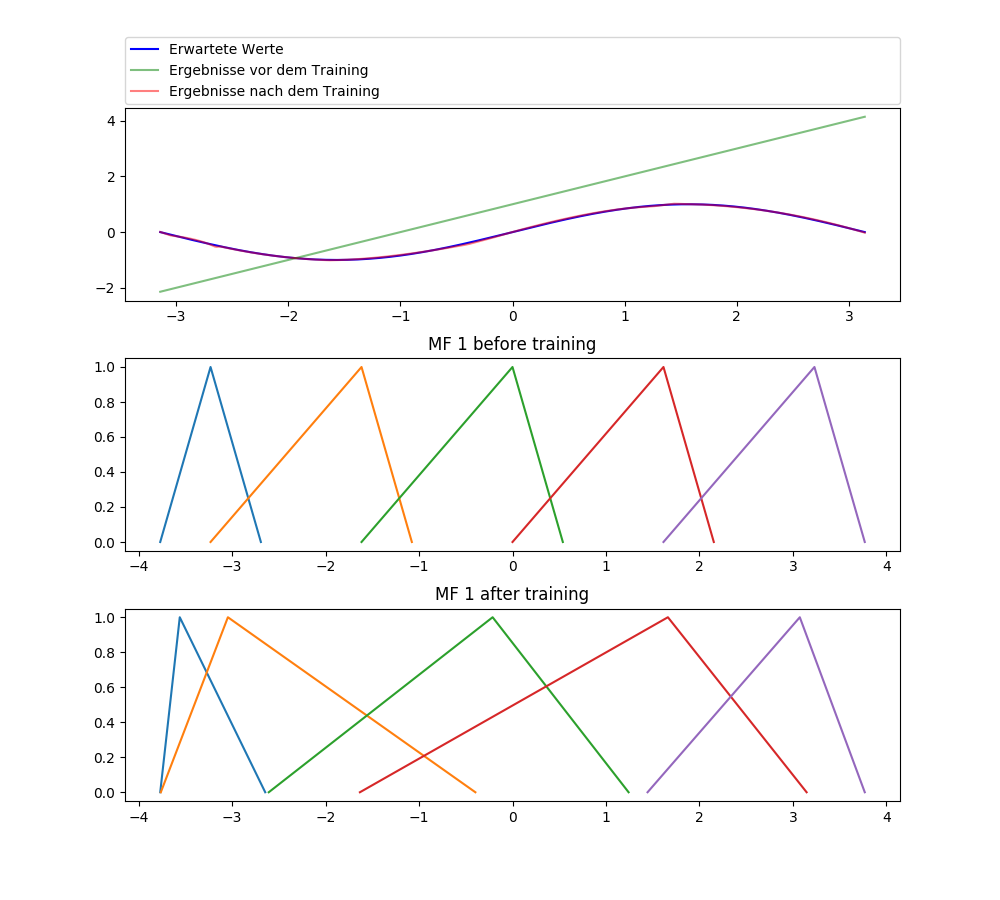
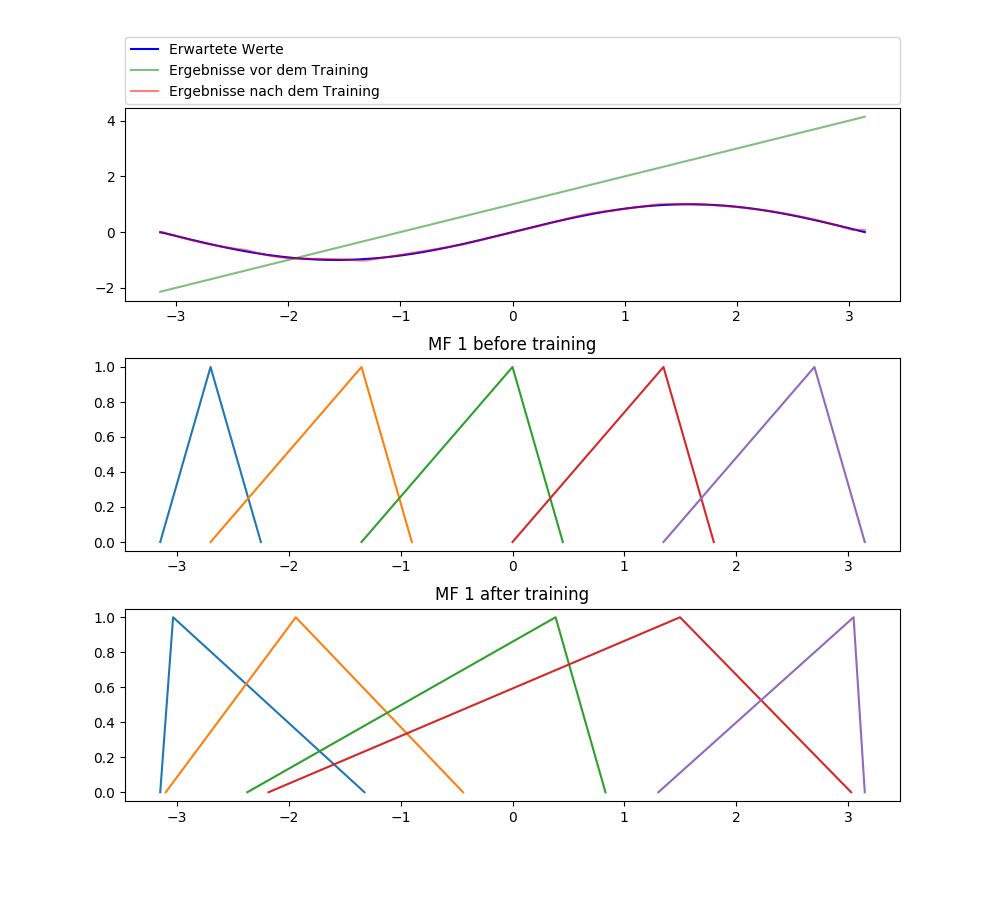
Partial Commit.

diff --git a/Tensorflow/ANFIS/anfis.py b/Tensorflow/ANFIS/anfis.py
@@ -117,45 +117,57 @@ class Anfis:
     # Finish it with the rest of the program Code
 
     def first_layer(self):
+        # three different types for gradient descent type
+        # so we have three types of batch size, wich defines the amount of elements to be evaluated in one interation
         if self.gradient_type == 0:
             self.batch_size = self.num_inputs
-            self.x = tf.placeholder(name="x", shape=(self.num_inputs, self.batch_size), dtype=tf.float64)
-            # expected result
-            self.y = tf.placeholder(name="y", shape=(self.batch_size), dtype=tf.float64)
         elif self.gradient_type == 1:
             self.batch_size = int((1 / 5) * (len(self.train_x_arr)))
-            self.x = tf.placeholder(name="x", shape=(self.num_inputs, self.batch_size), dtype=tf.float64)
-            # expected result
-            self.y = tf.placeholder(name="y", shape=(self.batch_size), dtype=tf.float64)
         elif self.gradient_type == 2:
             self.batch_size = len(self.train_x_arr)
-            self.x = tf.placeholder(name="x", shape=(self.num_inputs, self.batch_size), dtype=tf.float64)
-            # expected result
-            self.y = tf.placeholder(name="y", shape=(self.batch_size), dtype=tf.float64)
-
+        # input variable
+        self.x = tf.placeholder(name="x", shape=(self.num_inputs, self.batch_size), dtype=tf.float64)
+        # variable for expected result
+        self.y = tf.placeholder(name="y", shape=(self.batch_size), dtype=tf.float64)
+        # add all the variables to a collection, so that they are
+        # aveilable on demand
         tf.add_to_collection("xVar", self.x)
         tf.add_to_collection("yVar", self.y)
 
     def triangular_mf(self, x, par, name):
         # we define the triangular function
         if self.mf_type == 0:
+            # we split the traingular space into two
+            # the left side
+            # we calculate the membership of x to the left side
+            # we get a negative value if x is not part of the space
             dividend_left = tf.subtract(x, par[0])
             divider_left = tf.subtract(par[1], par[0])
             division_left = tf.divide(dividend_left, divider_left)
-            #
+            # we calculate the membership of x to the right side
             dividend_right = tf.subtract(par[2], x)
             divider_right = tf.subtract(par[2], par[1])
             division_right = tf.divide(dividend_right, divider_right)
-            #
+            # we get the lowest value
             minim = tf.minimum(division_left, division_right)
+            # then we calculate the highest of 0 and the previous value
             maxim = tf.maximum(minim, tf.cast(0.0, tf.float64))
             return maxim
         elif self.mf_type==1:
+            # first we calculate the dividend. We subtract the middle parameter of the mf with x
             dividend = tf.abs(tf.subtract(par[1], x))
+            # then we subtract the two boundary parameters of the membership function
             divider = tf.subtract(par[2], par[0])
+            # we divide the two values to get the output of the memberhip function
             op = tf.divide(dividend, divider)
+            # then we multiply it by 2, because we devide it by the whole length of the triangle
+            # and not just half of the length.
             mul = tf.multiply(tf.cast([2.], tf.float64), op)
+            # we subtract 1 from it so we always either have a positive value when x is a member
+            # of the set, or we get a negative value
             sub = tf.subtract(tf.cast([1.], tf.float64), mul)
+            # we calculate the maximum of the value from the mf and 0, this way we don't take variables that are outside
+            # the range of the membership function
             maxim = tf.maximum(tf.cast([0.], tf.float64), sub, name=name)
             return maxim
 
@@ -211,10 +223,13 @@ class Anfis:
                 val = val + val_inc
 
                 self.var[i][f] = a, m, b
+                self.constraints.append(tf.assign(a, tf.clip_by_value(a, self.range[0], m)))
+                self.constraints.append(tf.assign(b, tf.clip_by_value(b, m, self.range[1])))
+                self.constraints.append(tf.assign(m, tf.clip_by_value(m, self.range[0], self.range[1])))
 
-                self.constraints.append(tf.assign(a, tf.clip_by_value(a, self.range[0], m - 1e-2)))
-                self.constraints.append(tf.assign(b, tf.clip_by_value(b, m + 1e-2, self.range[1])))
-                self.constraints.append(tf.assign(m, tf.clip_by_value(m, self.range[0] + 0.1, self.range[1] - 0.1)))
+                # self.constraints.append(tf.assign(a, tf.clip_by_value(a, self.range[0], m - 1e-2)))
+                # self.constraints.append(tf.assign(b, tf.clip_by_value(b, m + 1e-2, self.range[1])))
+                # self.constraints.append(tf.assign(m, tf.clip_by_value(m, self.range[0] + 0.1, self.range[1] - 0.1)))
                 if f > 0:
                     self.constraints.append(tf.assign(a, tf.clip_by_value(a, self.range[0], self.var[i][f - 1][2] - 1)))
                 self.premises[i][f] = self.triangular_mf(self.x[i], self.var[i][f], "test_mf" + str(i) + str(f))
@@ -416,14 +431,27 @@ class Anfis:
         n = self.fileName + ' 1 Input ' + str(self.num_sets) + ' Sets ' + str(iterations) + ' Epochs ' + batch_types[
             self.gradient_type] + ' ' + mf_types[self.mf_type]
 
+        # graphics data
+        d = self.fileName + ' 1 Input ' + str(self.num_sets) + ' Sets ' + str(iterations) + ' Epochs'
+
         folder = self.fileName + '/' + batch_types[self.gradient_type].split(' ')[0] + '/'
 
         fig.savefig('../graphics/fifthgraphics/' + folder +
                     n + '.png')
 
         row_data = [[n, str(end - start), str(v), batch_types[self.gradient_type], mf_types[self.mf_type]]]
+        graphics_row_data = [[d, str(end - start), str(v), batch_types[self.gradient_type], mf_types[self.mf_type]]]
         print(row_data)
         write_in_csv('../csvFiles/model_results.csv', row_data)
+
+        # write_in_csv('../csvFiles/parabola_1000.csv', graphics_row_data)
+
+        a_y = sess.run(self.a_y)
+        a_0 = sess.run(self.a_0)
+        print("a_0", a_0)
+        print("a_y:", a_y)
+
+        self.__write_conc_param(a_0, a_y, '../graphics/fifthgraphics/' + folder + n + ".txt")
 
         return end - start
 
@@ -456,3 +484,19 @@ class Anfis:
             batch_y.append(self.train_y_arr[i][0])
 
         return batch_x, batch_y
+
+    def __write_conc_param(self, a0, ay, file):
+        f = open(file, "w+")
+        index = 1
+
+        for i in a0:
+            x_index = 1
+            f.write("f%s(x) = %s" % (index, i[0]))
+            for k in ay:
+                f.write(" + (%s*x%s)" % (k, x_index))
+                x_index += 1
+            index += 1
+            f.write("\n")
+        # f.write("a_0: %s \n" % a0)
+        # f.write("a_y: %s" % ay)
+        f.close()

diff --git a/Tensorflow/graphics/doku_graphs/graph_creater.py b/Tensorflow/graphics/doku_graphs/graph_creater.py
@@ -2,22 +2,40 @@ import matplotlib.pyplot as plt
 import numpy as np
 import skfuzzy as fuzz
 
-def plot_graph(x_arr, y_arr, name, legend):
+def plot_graph(x_arr, y_arr, name, legend=None):
 
+    plt.figure(figsize=(4,3))
     plt.plot(x_arr, y_arr)
-
     plt.legend(legend)
     plt.show()
     plt.savefig(name)
 
 
 
-x_arr = np.linspace(0, 40, 1000)
+x_arr = np.linspace(0, 30, 1000)
+y_f_bigger_1 = [1.0 if a > 1.0 else 0.0 for a in x_arr]
+y_f_bigger_1 = np.array(y_f_bigger_1)
+# print(x_arr)
+# print(y_f_bigger_1)
 
-y_arr = [1 if x >= 10 else 0 for x in x_arr]
+for i in range(1000):
+    print('(%f, %f)' % (x_arr[i], y_f_bigger_1[i]))
+# y_f_pos = []
+#
+# for i in x_arr:
+#     y_f_pos.append((i - 100) * (i - 100))
+#
+# legend = ['f(x) = (x - 100) * (x - 100)']
 
-y_f_middle = fuzz.trimf(x_arr, [10.0, 18.0, 25.0])
-y_f_high = np.subtract([1], fuzz.trapmf(x_arr, [20.0, 30.0, 40.0, 50.0]))
+# plot_graph(x_arr, y_f_pos, name="parabola_positive", legend=legend)
+# y_f_triangular = fuzz.trimf(x_arr, [0.0, 15.0, 30.0])
+# y_f_trapezoidal = fuzz.trapmf(x_arr, [33.0, 43.0, 53.0, 63.0])
+# y_f_glock = fuzz.gaussmf(x_arr, 100.0, 10.0)
+# y_arr = [1 if x >= 10 else 0 for x in x_arr]
+y_f_greater_1 = fuzz.trapmf(x_arr, [1.0, 20.0, 35.0, 40.0])
+
+# y_f_middle = fuzz.trimf(x_arr, [10.0, 18.0, 25.0])
+# y_f_high = np.subtract([1], fuzz.trapmf(x_arr, [20.0, 30.0, 40.0, 50.0]))
 # print(x_arr)
 # print(y_arr)
 # print(y_f_func)
@@ -30,4 +48,9 @@ y_f_high = np.subtract([1], fuzz.trapmf(x_arr, [20.0, 30.0, 40.0, 50.0]))
 #     ind += 1
 
 # plot_graph(x_arr, y_f_middle, "middle_temp.png", 'middle')
-plot_graph(x_arr, y_f_high, "not_high_temp.png", ['not high temperature'])
+plot_graph(x_arr, y_f_greater_1, "fuzz_logic.png", ['Viel größer als 1'])
+plot_graph(x_arr, y_f_bigger_1, "classic_logic.png", ['Viel größer als 1'])
+
+# plot_graph(x_arr, y_f_triangular, "mf_types.png")
+# plot_graph(x_arr, y_f_trapezoidal, "mf_types.png")
+# plot_graph(x_arr, y_f_glock, "mf_types.png")

diff --git a/Tensorflow/utils/numpyTest.py b/Tensorflow/utils/numpyTest.py
@@ -28,10 +28,29 @@ from utils.file_reader import createFile
 # Parabola
 z1 = np.linspace(-100, 100, 1000)
 y = (z1)*(z1)
-#
-z1.resize(len(z1), 1)
+
 y.resize(1, len(y))
+z1.resize(len(z1), 1)
 createFile(z1, y, "parabola_1000.out")
+
+arr1 = np.linspace(-50, 50, 1000)
+
+arr2 = np.linspace(0, 100, 1000)
+
+y = (arr1)*(arr1) + (arr2)
+
+#
+arr1.resize(len(arr1), 1)
+arr2.resize(len(arr2), 1)
+
+print(y)
+
+two_inp = np.append(arr1, arr2, 1)
+
+print(two_inp)
+
+y.resize(1, len(y))
+createFile(two_inp, y, "two_input_equation.out")
 # ma = np.concatenate((z1,y), axis=0)
 #
 # np.savetxt('parabola_values.out', ma,  delimiter = ',')

diff --git a/Tensorflow/tf_custom_training/test.py b/Tensorflow/tf_custom_training/test.py
@@ -9,12 +9,12 @@ start = time.process_time()
 num_sets = 2
 
 f = Anfis(num_sets=num_sets,
-          path="../utils/sinus.out", gradient_type=0, mf_type=0)
+          path="../utils/parabola_1000.out", gradient_type=1, mf_type=0)
 
 with f.sess as sess:
     sess.run(f.get_variable_initializer())
 
-    print("Training Time %fs." % f.train(sess, 13))
+    print("Training Time %fs." % f.train(sess, 5))
     print("-----------------------------------------------------")
 
     a_y = sess.run(f.a_y)

diff --git a/Tensorflow/utils/data_generation.py b/Tensorflow/utils/data_generation.py
@@ -19,6 +19,7 @@ def genDataSetWithNoise(input, size):
 # x_data, y_data, w_real, b_real, noise = genDataSetWithNoise(1, 2000)
 
 
+
 # print(x_data)
 # print(y_data)
 

diff --git a/Tensorflow/utils/file_reader.py b/Tensorflow/utils/file_reader.py
@@ -112,6 +112,8 @@ def createFile(xArr, yArr, name):
 
     file.close()
 
+
+
 # xArr, yArr = readFile("test2.txt")
 
 # print(xArr, yArr)
